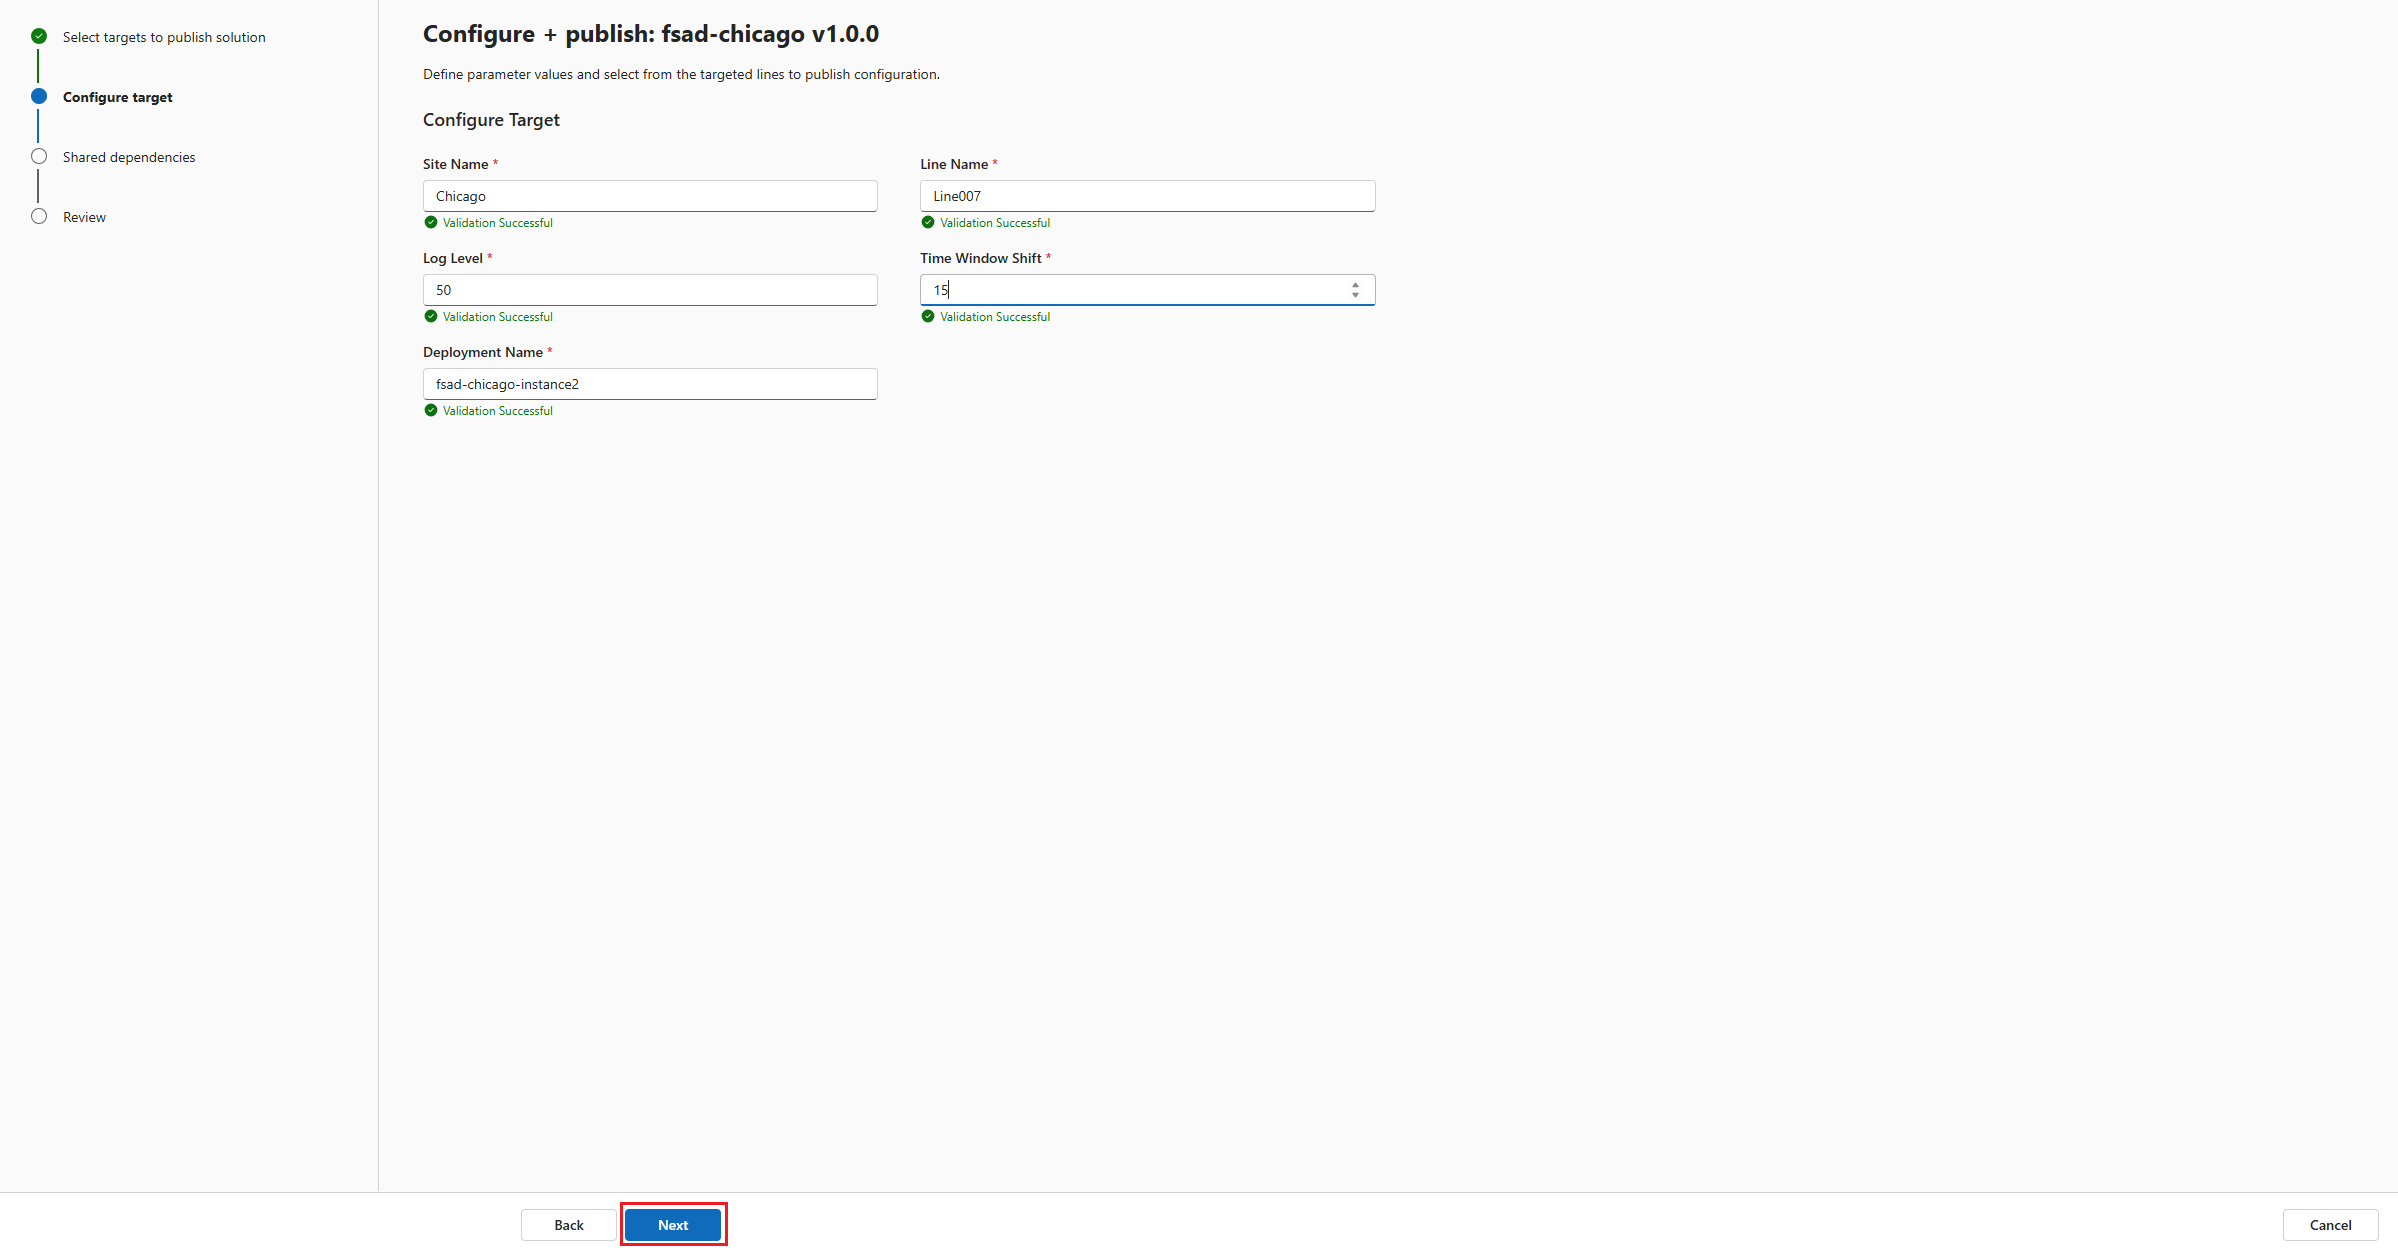
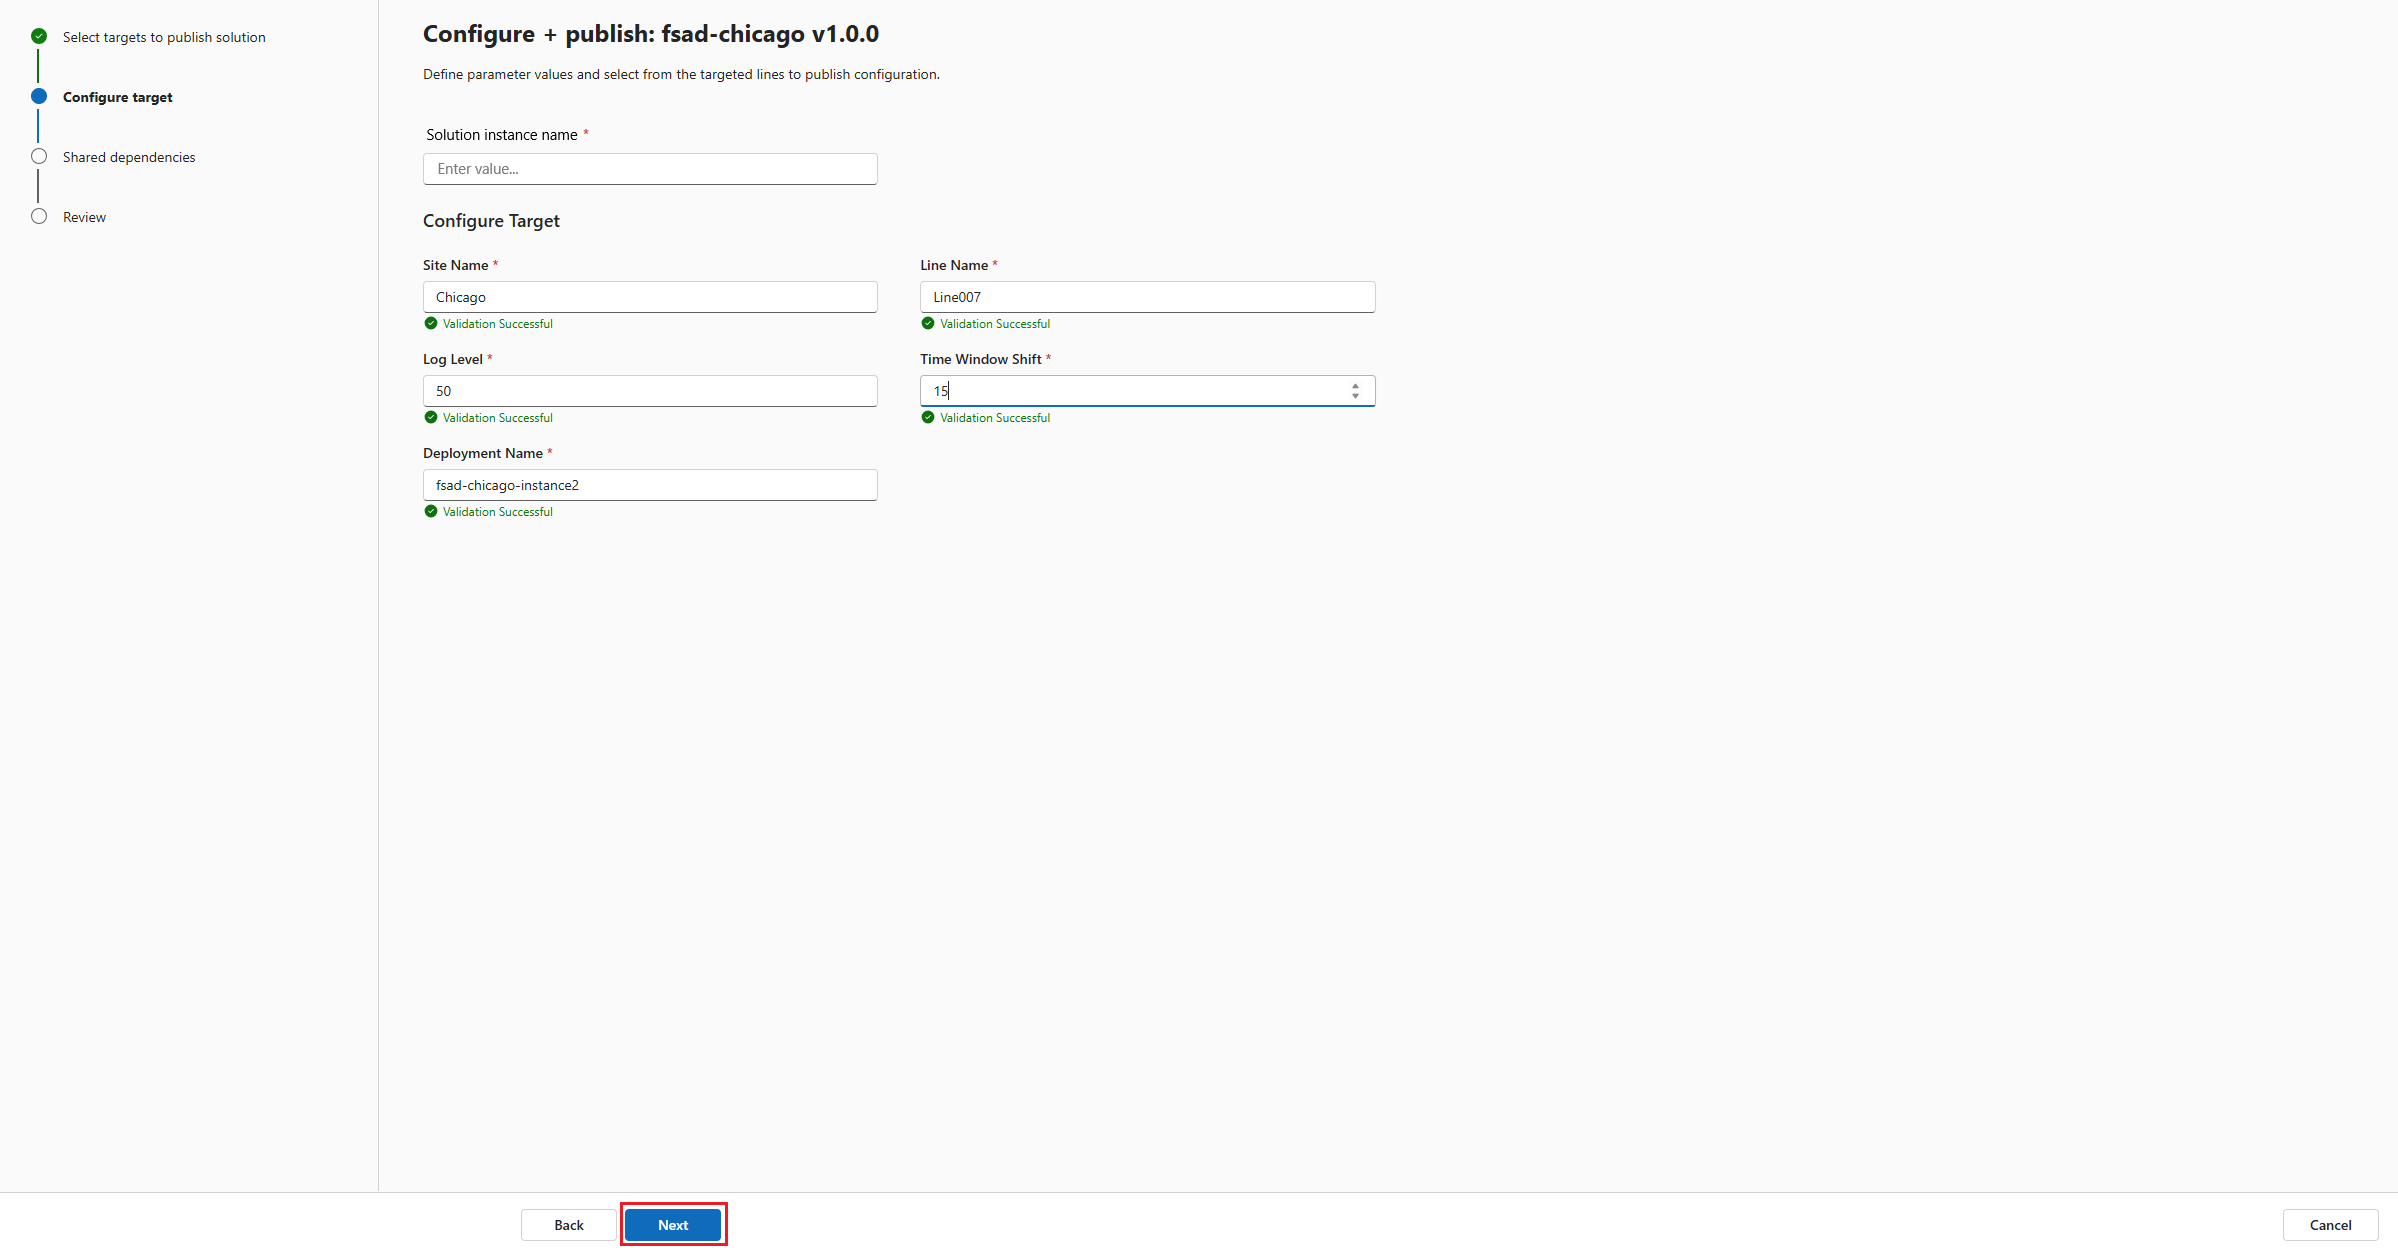
Adding bulk deployment and screenshots

Changed region(s): [[0.1543, 0.0935, 0.2469, 0.4365], [0.3703, 0.1247, 0.5555, 0.3429]]

diff --git a/articles/azure-arc/workload-orchestration/tutorial-service-group-scenario-2.md b/articles/azure-arc/workload-orchestration/tutorial-service-group-scenario-2.md
@@ -122,15 +122,20 @@ The solution is named RegionHub (RH) and is deployed at the target, which means 
 
 ## Prepare the solution template
 
+To create the solution schema and solution template files, you can use *common-schema.yaml* and *app-config-template.yaml* files, respectively, in [GitHub repository](https://github.com/microsoft/AEP/blob/main/content/en/docs/Configuration%20Manager%20(Public%20Preview)/Scripts%20for%20Onboarding/Configuration%20manager%20files.zip) as reference. 
+
+> [!IMPORTANT]
+> If the solution is to be deployed at factory level, then the `editbale_at` field in the schema only accepts the parent levels in addition to target level, that is country, region, and factory. If the solution is to be deployed at region level, then the `editbale_at` field in the schema accepts only country and region levels.
+
 ### [Bash](#tab/bash)
 
-1. Create the solution schema file. Use the *common-schema.yaml* file in [GitHub repository](https://github.com/microsoft/AEP/blob/main/content/en/docs/Configuration%20Manager%20(Public%20Preview)/Scripts%20for%20Onboarding/Configuration%20manager%20files.zip) as reference. 
+1. Create the solution schema file.
 
     ```bash
     az workload-orchestration schema create --resource-group "$rg" --version "1.0.0" --schema-name "$Regionname-schema" --schema-file ./common-schema.yaml -l "$l"
     ```
 
-1. Create the solution template file. Use the *app-config-template.yaml* file in [GitHub repository](https://github.com/microsoft/AEP/blob/main/content/en/docs/Configuration%20Manager%20(Public%20Preview)/Scripts%20for%20Onboarding/Configuration%20manager%20files.zip) as reference.
+1. Create the solution template file. 
 
     ```bash
     solutionName="RegionHub Solution"    
@@ -148,13 +153,13 @@ The solution is named RegionHub (RH) and is deployed at the target, which means 
 
 ### [PowerShell](#tab/powershell)
 
-1. Create the solution schema file. Use the *common-schema.yaml* file in [GitHub repository](https://github.com/microsoft/AEP/blob/main/content/en/docs/Configuration%20Manager%20(Public%20Preview)/Scripts%20for%20Onboarding/Configuration%20manager%20files.zip) as reference. 
+1. Create the solution schema file. 
 
     ```powershell
     az workload-orchestration schema create --resource-group $rg --version "1.0.0" --schema-name "$Regionname-schema" --schema-file ./common-schema.yaml -l $l
     ```
 
-1. Create the solution template file. Use the *app-config-template.yaml* file in [GitHub repository](https://github.com/microsoft/AEP/blob/main/content/en/docs/Configuration%20Manager%20(Public%20Preview)/Scripts%20for%20Onboarding/Configuration%20manager%20files.zip) as reference.
+1. Create the solution template file. 
 
     ```powershell
     $solutionName = "RegionHub Solution"    

diff --git a/articles/azure-arc/workload-orchestration/bulk-deployment.md b/articles/azure-arc/workload-orchestration/bulk-deployment.md
@@ -1,5 +1,5 @@
 ---
-title: Bulk Deployment in Workload Orchestration
+title: Bulk Deployment with Workload Orchestration
 description: 
 author: SoniaLopezBravo
 ms.author: sonialopez
@@ -7,4 +7,58 @@ ms.topic: how-to
 ms.date: 06/02/2025
 ---
 
-# Bulk deployment 
+# Bulk deployment with workload orchestration
+
+Workload orchestration allows you to deploy multiple workloads in bulk. With bulk deployment, you can publish a solution across multiple clusters. 
+
+Currently bulk deployment is only supported via CLI.
+
+## Prerequisites
+
+- Set up your environment for workload orchestration. If you haven't, go to [Prepare your environment for workload orchestration](initial-setup-environment.md) to set up the prerequisites.
+
+## Perform a bulk deployment
+
+To perform a bulk deployment, run `bulk-deploy-solution` command in the Azure CLI.
+
+```powershell
+az workload-orchestration solution-template bulk-deploy-solution --targets "@target-file.json"  --solution-instance-name "<solution instance name>" --solution-version "<solution template version>" --solution-name "<solution-name>" --dependencies "@dependencies-file.json" -g "<resource group>"
+```
+
+You need to provide a *target-file.json* file that contains the list of targets where you want to deploy the solution. An instance name for the solution is optional. The file should be in the following format:
+
+```json
+[
+    {
+        "targetId": "<target resource ID>",
+        "solutionInstanceName": "<instance name>",
+    },
+    {
+        "targetId": "<target resource ID>",
+    }
+]
+```
+
+> [!IMPORTANT]
+> You need to have access to the target clusters on which the solution is deployed. 
+
+You also need to provide a *dependencies-file.json* file that contains the list of dependencies for the solution. The file should be in the following format:
+
+```json
+[
+    {
+        "solutionVersionId": "<solution version ID>",
+    }
+]
+```
+
+## Bulk deployment failures
+
+There are two types of failures that can occur during bulk deployment: complete failure, when all the targets fail to deploy, and partial failure, when some targets succeed while others fail.
+
+When a bulk deployment fails, the CLI will return an error message indicating the failed and deployed targets in case of a partial failure. In case of a complete failure, the CLI will return an error message indicating that all targets failed to deploy.
+
+## Related content
+
+- [Diagnose of problems](diagnose-problems.md)
+- [Service groups](service-group.md)

diff --git a/articles/azure-arc/workload-orchestration/tutorial-service-group-scenario-1.md b/articles/azure-arc/workload-orchestration/tutorial-service-group-scenario-1.md
@@ -120,15 +120,18 @@ The solution is named EdgeLink (EL) and is deployed at the target, which means t
 
 ## Prepare the solution template
 
+To create the solution schema and solution template files, you can use *common-schema.yaml* and *app-config-template.yaml* files, respectively, in [GitHub repository](https://github.com/microsoft/AEP/blob/main/content/en/docs/Configuration%20Manager%20(Public%20Preview)/Scripts%20for%20Onboarding/Configuration%20manager%20files.zip) as reference. 
+
+
 ### [Bash](#tab/bash)
 
-1. Create the solution schema file. Use the *common-schema.yaml* file in [GitHub repository](https://github.com/microsoft/AEP/blob/main/content/en/docs/Configuration%20Manager%20(Public%20Preview)/Scripts%20for%20Onboarding/Configuration%20manager%20files.zip) as reference. 
+1. Create the solution schema file. 
 
     ```bash
     az workload-orchestration schema create --resource-group "$rg" --version "1.0.0" --schema-name "$Linename-schema" --schema-file ./common-schema.yaml -l "$l"
     ```
 
-1. Create the solution template file. Use the *app-config-template.yaml* file in [GitHub repository](https://github.com/microsoft/AEP/blob/main/content/en/docs/Configuration%20Manager%20(Public%20Preview)/Scripts%20for%20Onboarding/Configuration%20manager%20files.zip) as reference. 
+1. Create the solution template file. 
 
     ```bash
     solutionName="Edge-Link App"
@@ -146,13 +149,13 @@ The solution is named EdgeLink (EL) and is deployed at the target, which means t
 
 ### [PowerShell](#tab/powershell)
 
-1. Create the solution schema file. Use the *common-schema.yaml* file in [GitHub repository](https://github.com/microsoft/AEP/blob/main/content/en/docs/Configuration%20Manager%20(Public%20Preview)/Scripts%20for%20Onboarding/Configuration%20manager%20files.zip) as reference. 
+1. Create the solution schema file. 
 
     ```powershell
     az workload-orchestration schema create --resource-group $rg --version "1.0.0" --schema-name "$Linename-schema" --schema-file .\common-schema.yaml -l $l
     ```
 
-1. Create the solution template file. Use the *app-config-template.yaml* file in [GitHub repository](https://github.com/microsoft/AEP/blob/main/content/en/docs/Configuration%20Manager%20(Public%20Preview)/Scripts%20for%20Onboarding/Configuration%20manager%20files.zip) as reference. 
+1. Create the solution template file. 
 
     ````powershell
     $solutionName = "Edge-Link App"

diff --git a/articles/azure-arc/workload-orchestration/diagnose-problems.md b/articles/azure-arc/workload-orchestration/diagnose-problems.md
@@ -50,7 +50,7 @@ Some common cloud problems include misconfigured RBAC permissions or policy rest
 
 These problems are visible in the Azure portal through the Azure Monitor service. They can be resolved by checking the diagnostic settings, ensuring proper RBAC permissions are in place, and verifying the health of Azure services in the region.
 
-## Diagnose log problems
+## Log problems
 
 The following table summarizes the different types of logs that can be collected or generated by workload orchestration, container insights, and OTLP (OpenTelemetry logs) or syslogs. Click on the links in the "Reference" column to learn how to diagnose these logs problems.
 
@@ -142,9 +142,9 @@ The following table summarizes the different types of logs that can be collected
 
 ### Collect container logs or Kubernetes events
 
-1. To collect container logs or Kubernetes events from the Azure Arc-enabled Kubernetes cluster you need to enable [Azure Monitor for Kubernetes cluster](/azure/azure-monitor/containers/kubernetes-monitoring-enable?tabs=cli#arc-enabled-cluster-1).
+1. To collect container logs or Kubernetes events from the Azure Arc-enabled Kubernetes cluster you need to enable [Container insights in Azure Monitor](/azure/azure-monitor/containers/kubernetes-monitoring-enable?tabs=cli#arc-enabled-cluster-1).
 
-1. Once you have enabled Azure Monitor for containers, you can use the following commands to collect logs and events using an existing Log Analytics workspace.
+1. Once you have enabled Container insights, you can use the following commands to collect logs and events using an existing Log Analytics workspace.
 
     ```powershell
     ### Use existing Log Analytics workspace

diff --git a/articles/azure-arc/workload-orchestration/configure.md b/articles/azure-arc/workload-orchestration/configure.md
@@ -107,7 +107,7 @@ To configure a solution, follow these steps:
     :::image type="content" source="./media/configure-solution-2.png" alt-text="Screenshot of the solution tab in workload orchestration portal showing how to configure a solution and disable auto-publish." lightbox="./media/configure-solution-2.png":::
 
 
-1. In the **Configure target** step, enter the parameters to publish the solution and click on **Next**.
+1. In the **Configure target** step, enter the instance name and the parameters to publish the solution and click on **Next**.
 
     :::image type="content" source="./media/configure-solution-3.png" alt-text="Screenshot of the solution tab in workload orchestration portal showing how to enter the parameters to configure the targets." lightbox="./media/configure-solution-3.png":::
 
@@ -148,7 +148,7 @@ To configure a Factory Sensor Anomaly Detector (FSAD) solution you need to confi
 
     :::image type="content" source="./media/configure-fsad-1.png" alt-text="Screenshot of the solution tab in workload orchestration portal showing how to configure the targets for a solution FSAD." lightbox="./media/configure-fsad-1.png":::
 
-1. In the **Configure target** step, enter the values for FSAD configurations.
+1. In the **Configure target** step, enter the instance name for the solution and the values for FSAD configurations.
 
     :::image type="content" source="./media/configure-fsad-2.png" alt-text="Screenshot of the solution tab in workload orchestration portal showing how to enter the values to configure the targets for a solution FSAD." lightbox="./media/configure-fsad-2.png":::
 

diff --git a/articles/azure-arc/workload-orchestration/service-group.md b/articles/azure-arc/workload-orchestration/service-group.md
@@ -327,7 +327,11 @@ Service groups can be created for a **two-level** hierarchy organization, such a
 
 The previous sections show how to create a service group for a two-level hierarchy organization, which you can use as a reference to create service groups for a three-level or four-level hierarchy organization.
 
-To ease the process, the following steps show how to create a four-level service group hierarchy organization.
+To ease the process, the following steps show how to create a four-level service group hierarchy organization. You need to consider the following points:
+
+- Although the context has 4 levels, if the site reference is defined at region level, then the particular site will have only 3 levels: region, factory, and line.  If the site reference is at factory level, then the particular site will have only 2 levels: factory and line. 
+- If the solution is to be deployed at factory level, then the `editbale_at` field in the schema only accepts the parent levels in addition to target level, that is country, region, and factory. If the solution is to be deployed at region level, then the `editbale_at` field in the schema accepts only country and region levels.
+
 
 ### [Bash](#tab/bash)
 

diff --git a/articles/azure-arc/workload-orchestration/how-to-stage.md b/articles/azure-arc/workload-orchestration/how-to-stage.md
@@ -188,3 +188,11 @@ You can view staging details in the **Published solutions** tab of the [workload
 
     :::image type="content" source="./media/staging-failure.png" alt-text="Screenshot of the failed staging status in the workload orchestration portal." lightbox="./media/staging-failure.png":::
 
+
+
+## Related content
+
+- [Monitor your solutions with Azure portal](azure-portal-monitoring.md)
+- [Diagnose of problems](diagnose-problems.md)
+- [Service groups](service-group.md)
+- [Bulk deployment](bulk-deployment.md)
